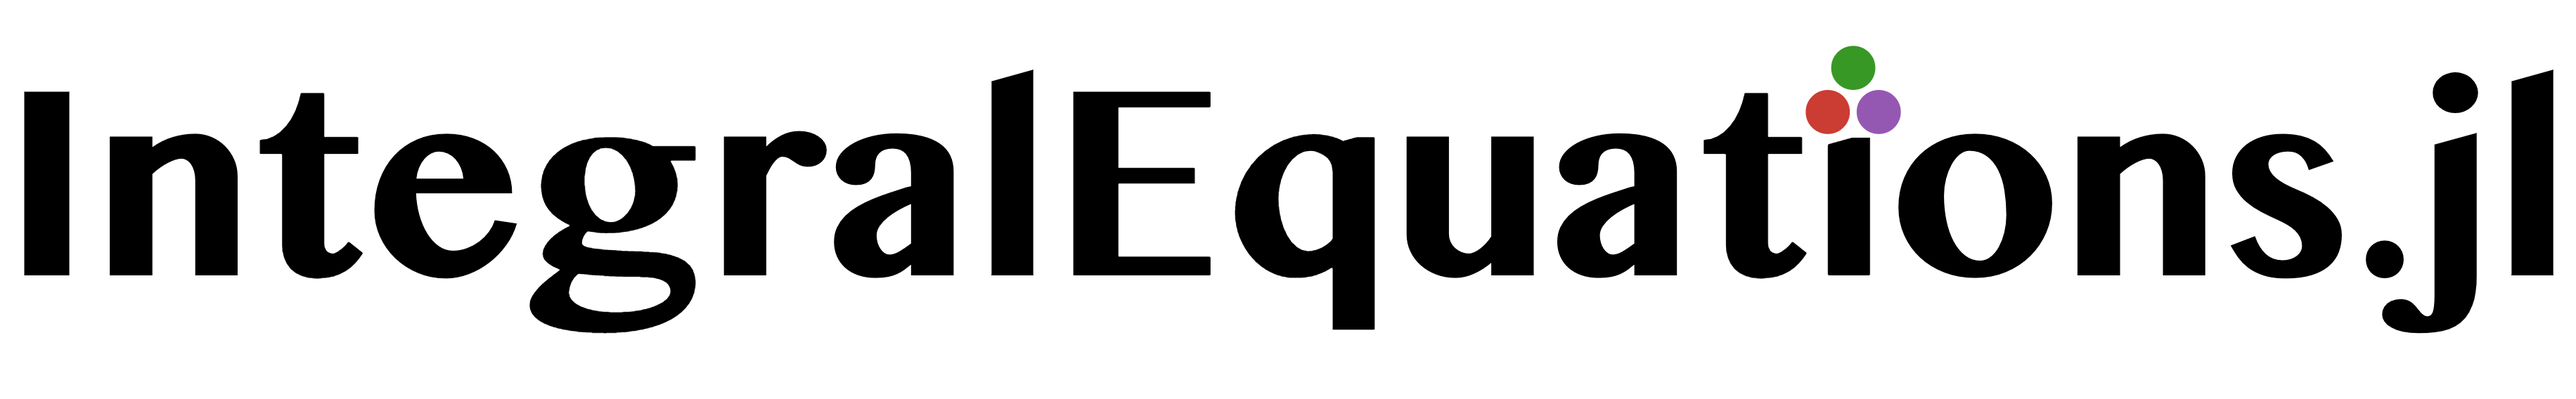
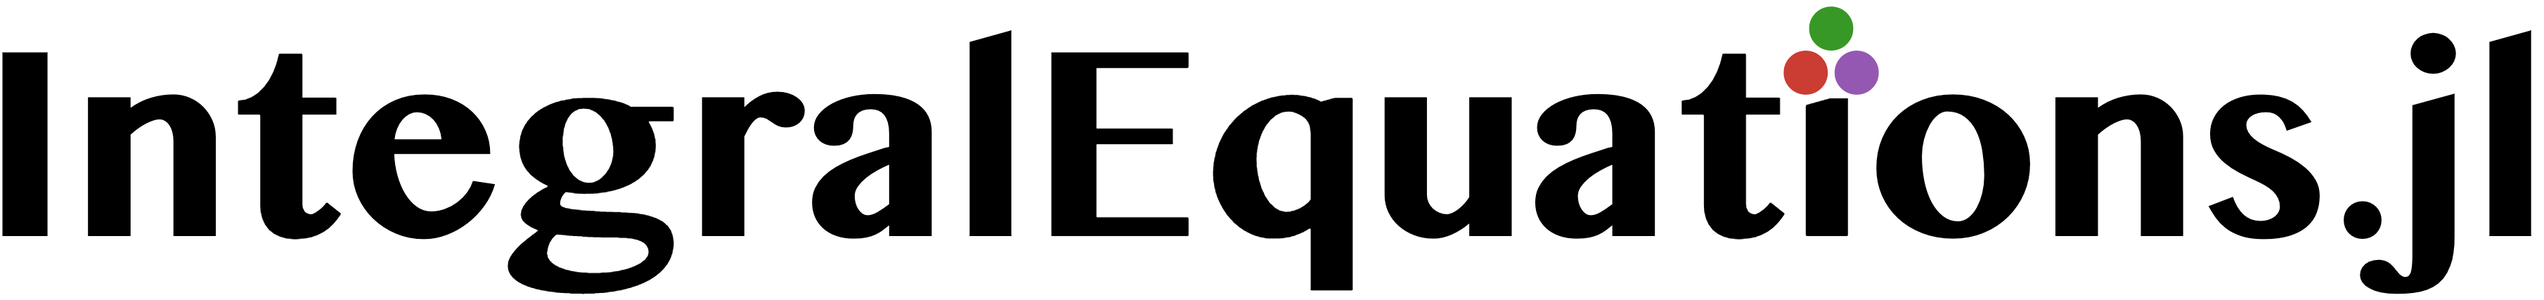
New photo

Changed region(s): [[0.0, 0.0913, 0.9992, 1.0], [0.6557, 0.1522, 0.7494, 0.2436], [0.6869, 0.0304, 0.7494, 0.1218]]

diff --git a/README.md b/README.md
@@ -1,4 +1,4 @@
-# <img src="integral_equations.png" alt="drawing" width="300"/>
+# <img src="integral_equations.png" alt="drawing" width="400"/>
 
 [![Build Status](https://github.com/mipals/IntegralEquations.jl/actions/workflows/CI.yml/badge.svg?branch=main)](https://github.com/mipals/IntegralEquations.jl/actions/workflows/CI.yml?query=branch%3Amain)
 [![Coverage](https://codecov.io/gh/mipals/IntegralEquations.jl/branch/main/graph/badge.svg)](https://codecov.io/gh/mipals/IntegralEquations.jl)
